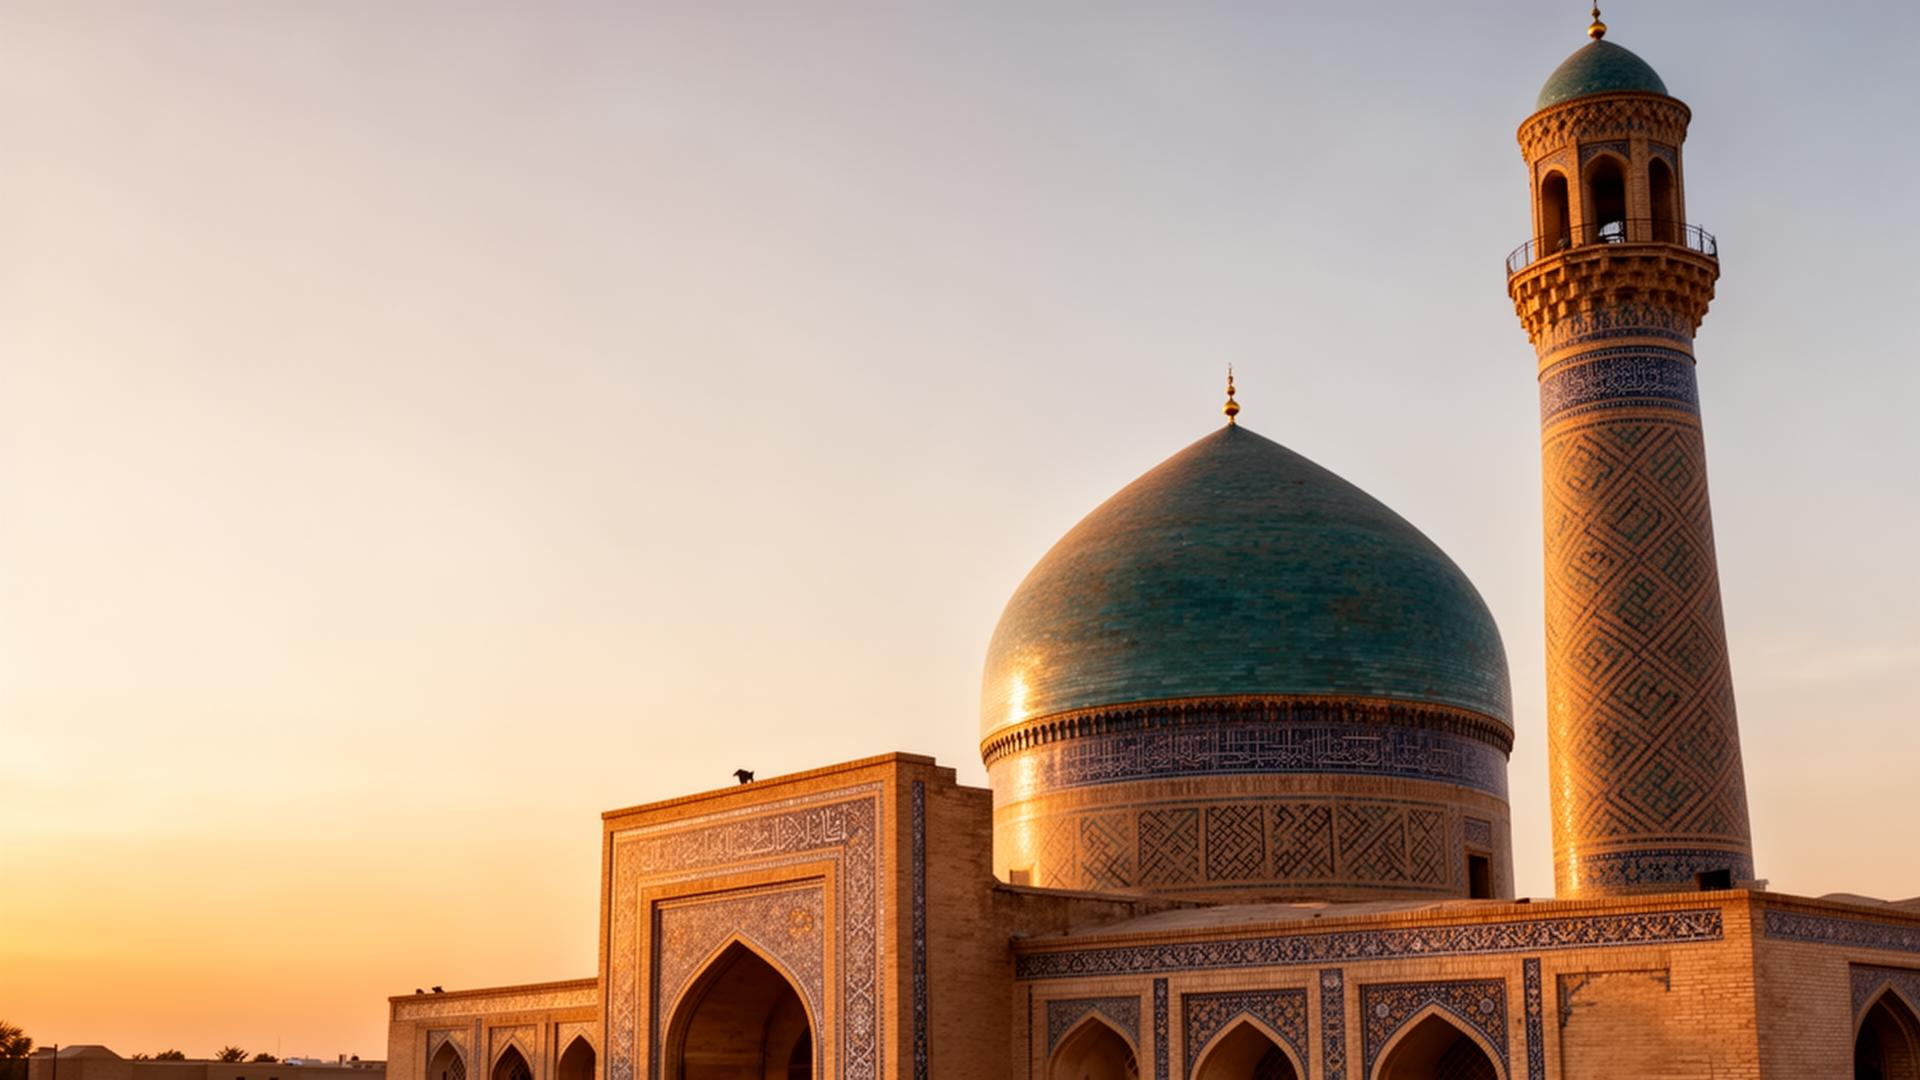
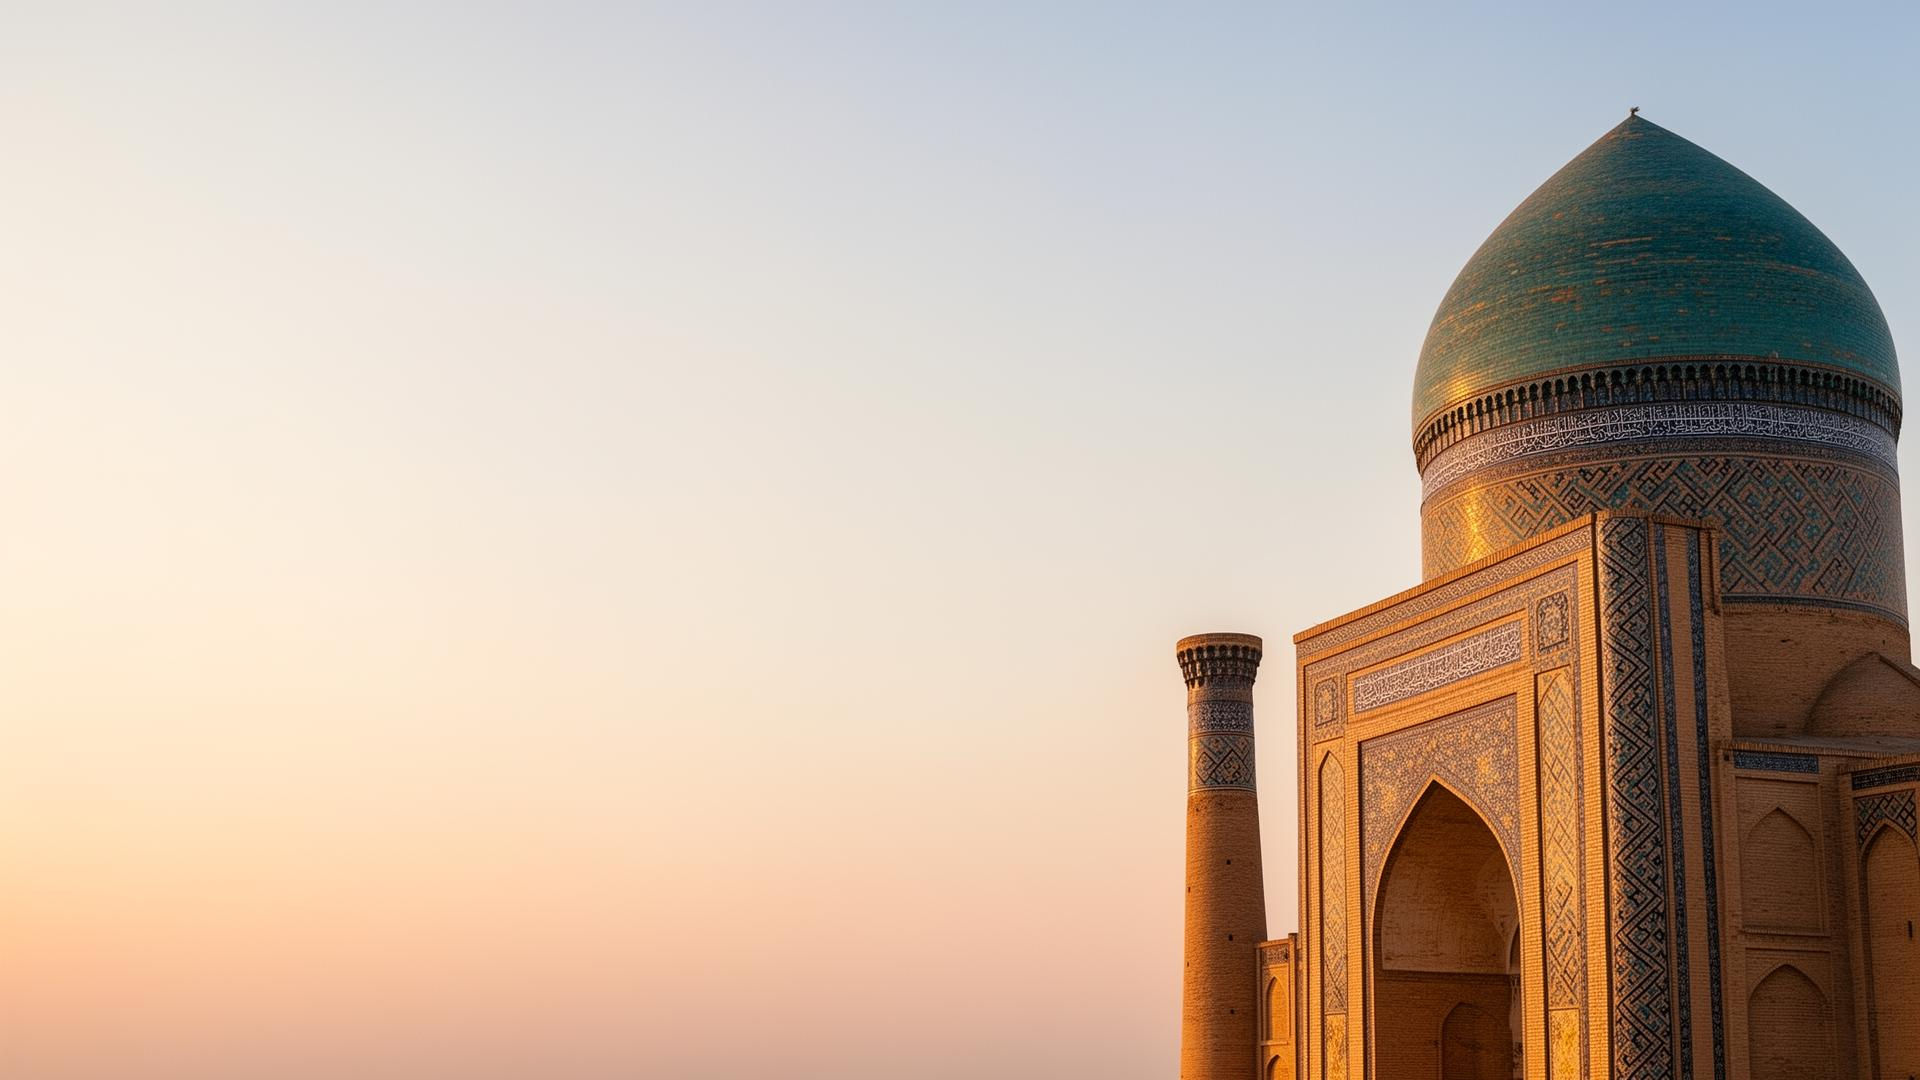
Reverted to commit 5fa113c405b8b0639232bb1fa35b536be755a425

diff --git a/src/components/home/HeroSearch.tsx b/src/components/home/HeroSearch.tsx
@@ -64,13 +64,13 @@ export function HeroSearch() {
   const todayISO = new Date().toISOString().slice(0, 10);
 
   return (
-    <section className="relative overflow-hidden min-h-[500px] md:min-h-[560px] flex flex-col justify-end">
+    <section className="relative overflow-hidden min-h-[460px] md:min-h-[520px] flex flex-col justify-end">
       {/* Background image */}
-      <div className="absolute inset-0 z-0 overflow-hidden">
+      <div className="absolute inset-0 z-0">
         <img
           src={heroImg}
           alt="Chashma-Ayub mausoleum, Bukhara"
-          className="h-full w-full object-cover scale-[1.15] [object-position:78%_18%] md:scale-100 md:object-center"
+          className="h-full w-full object-cover [object-position:78%_center] md:object-center"
           loading="eager"
         />
 
